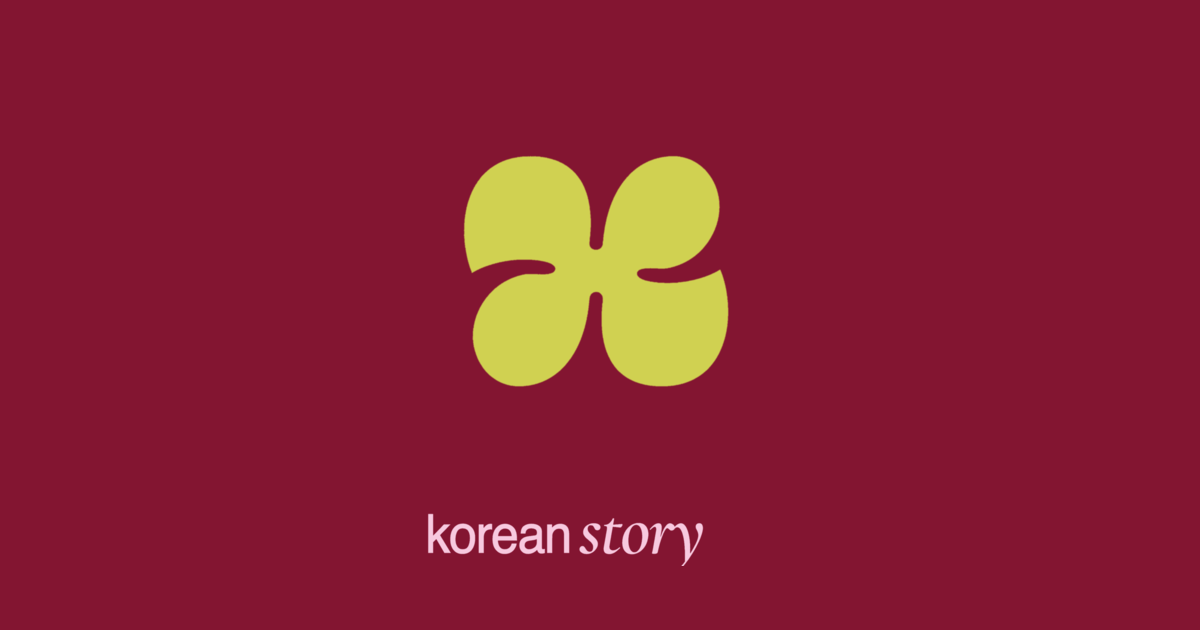
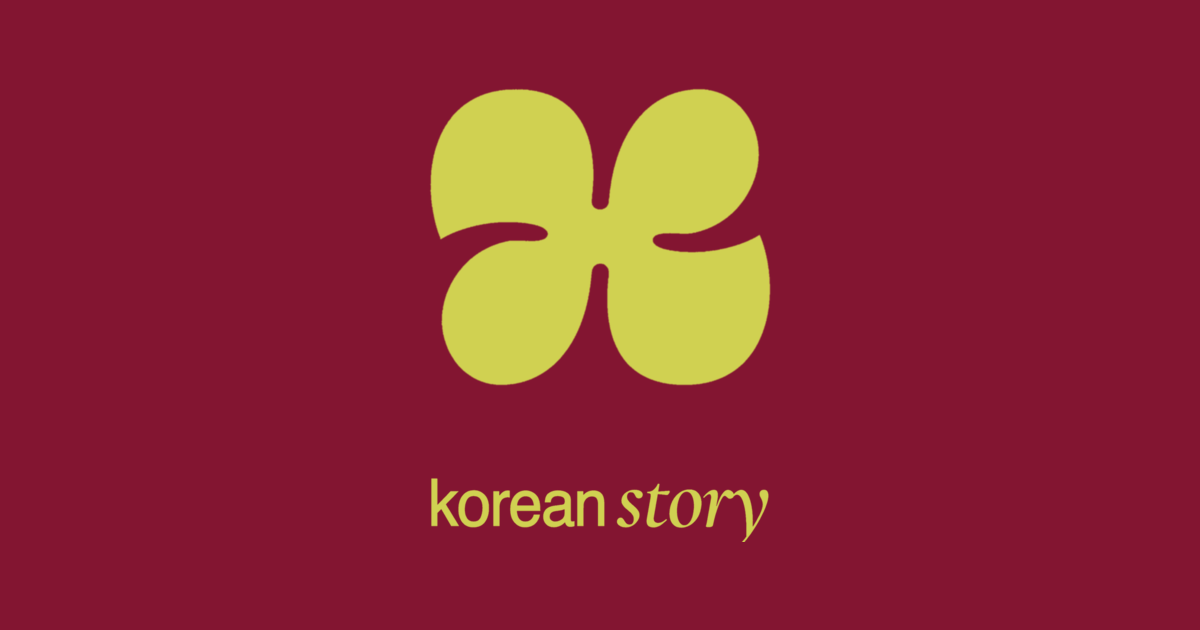
feat(first order): 10% for a new customer, and cards that line up
**The discount.** Shopify applies a code from a link — `/discount/CODE?redirect=…`
— and that is the whole reason this needs no Admin token: a person creates the
code once in the shop's admin, the bot hands out the link. Checked against the
live storefront first: a 302 to the landing page with the UTM tags intact.

Shown in the three places a customer has nothing else to look at — right after
registration, on an empty orders screen, on an empty favourites screen — and
nowhere else. Somebody with a history has had their first order already.

`first_order_code` is empty in config.yaml and the offer is invisible until it
is filled: a button leading to a code that does not exist is worse than no
button, and the bot does not create discounts. `first_order_reward` is the
wording, because the size of it is the shop's promise. The referral reward is
now written out too — «Знижка 10% на наступне замовлення».

**The cards.** The wordmark was cropped to a fixed rectangle with 175px of
uneven padding around the glyphs, so "centred" centred the padding. Both cards
are rebuilt from trimmed masks on one layout — flower 300 tall at y=87, wordmark
340 wide at y=477 — and the script that does it is checked in beside them
(`webapp/build_cards.sh`), because the next card should not be aligned by eye
either.

Changed region(s): [[0.3392, 0.1206, 0.6475, 0.6333], [0.3392, 0.754, 0.6475, 0.9048]]

diff --git a/bot/handlers/orders.py b/bot/handlers/orders.py
@@ -28,7 +28,8 @@ from core.repos.catalogue import get_offers
 from core.repos.orders import (CANCELLED_STATUS_GROUP, get_cached_orders,
                                get_last_sync_time)
 from core.repos.users import get_user_phone
-from bot.keyboards import STYLE_CART, STYLE_LIST, STYLE_UNDO, cart_url
+from bot.keyboards import (STYLE_CART, STYLE_LIST, STYLE_UNDO, cart_url,
+                           discount_url)
 from bot.screen import render, typing
 from bot.handlers.delivery import parcel_lines
 from bot.sync import stale_notice
@@ -402,18 +403,53 @@ def _orders_kb(
     return builder.as_markup()
 
 
-def _no_orders_kb(t: Texts) -> InlineKeyboardMarkup:
-    """Offer support when the lookup found nothing.
+def _no_orders_kb(t: Texts, config: AppConfig | None = None) -> InlineKeyboardMarkup:
+    """The first-order discount, support, and the way back.
 
     A customer who just shared their contact and got "no orders" has nowhere to
-    go otherwise, and the most likely cause — the order sits under a different
-    phone than their Telegram — is something only a manager can resolve.
+    go otherwise, and the two things worth offering them are opposite: a reason
+    to buy something, and a person to ask if they believe they already have.
+    The second most likely cause of an empty screen — the order sits under a
+    different phone than their Telegram — is something only a manager can fix.
+
+    The discount button appears only where a code is configured. There is no
+    default code in the code, and there never should be: the bot hands out a
+    link that applies one, it does not invent discounts.
     """
     builder = InlineKeyboardBuilder()
+    if config is not None and config.first_order_code:
+        builder.button(
+            text=t.BTN_FIRST_ORDER,
+            url=discount_url(config.website_url, config.first_order_code, t.lang),
+            style=STYLE_CART,
+        )
     builder.button(text=t.BTN_SUPPORT, callback_data=MenuAction(action="support"))
     builder.button(text=t.BTN_MENU, callback_data=MenuAction(action="menu"))
     builder.adjust(1)
     return builder.as_markup()
+
+
+def first_order_kb(t: Texts, config: AppConfig) -> InlineKeyboardMarkup:
+    """Just the discount, for the message that follows registration."""
+    builder = InlineKeyboardBuilder()
+    builder.button(
+        text=t.BTN_FIRST_ORDER,
+        url=discount_url(config.website_url, config.first_order_code, t.lang),
+        style=STYLE_CART,
+    )
+    return builder.as_markup()
+
+
+def first_order_offer(t: Texts, config: AppConfig) -> str:
+    """The offer as a paragraph, or "" when no code is configured.
+
+    Its own function because two screens and the end of registration all show
+    the same thing, and a customer who has seen it once should not read three
+    different versions of it.
+    """
+    if not config.first_order_code or not config.first_order_reward:
+        return ""
+    return t.MSG_FIRST_ORDER.format(reward=escape(config.first_order_reward))
 
 
 def favourite_products(orders: list[dict], limit: int = 5) -> list[dict]:
@@ -508,6 +544,7 @@ async def orders_screen(
     t: Texts,
     keycrm: KeyCRMClient,
     anchor: Message,
+    config: AppConfig | None = None,
 ) -> tuple[str, InlineKeyboardMarkup | None]:
     """The orders screen, ready to be sent or edited into place.
 
@@ -539,9 +576,15 @@ async def orders_screen(
     # below it so a long history cannot bury it.
     notice = await stale_notice(chat_id, t)
     text = _format_orders_from_cache(cached, t)
+    if not cached and config is not None:
+        # Nothing to show is the one moment a first-order discount is exactly
+        # the right thing to say.
+        offer = first_order_offer(t, config)
+        if offer:
+            text = f"{text}\n\n{offer}"
     return (
         f"{notice}\n\n{text}" if notice else text,
-        _orders_kb(cached, t) if cached else _no_orders_kb(t),
+        _orders_kb(cached, t) if cached else _no_orders_kb(t, config),
     )
 
 
@@ -625,6 +668,7 @@ async def favourites_screen(
     keycrm: KeyCRMClient,
     anchor: Message,
     website_url: str,
+    config: AppConfig | None = None,
 ) -> tuple[str, InlineKeyboardMarkup | None]:
     """The favourites screen.
 
@@ -642,13 +686,15 @@ async def favourites_screen(
         await _refresh_orders(chat_id, keycrm)
         cached = await get_cached_orders(chat_id)
 
-    text, markup, found = await _favourites_view(chat_id, t, cached, website_url)
+    text, markup, found = await _favourites_view(chat_id, t, cached, website_url,
+                                                 config)
     track(chat_id, "favourites_viewed", found=found)
     return text, markup
 
 
 async def _favourites_view(
-    chat_id: int, t: Texts, cached: list[dict], website_url: str
+    chat_id: int, t: Texts, cached: list[dict], website_url: str,
+    config: AppConfig | None = None,
 ) -> tuple[str, InlineKeyboardMarkup, int]:
     """The favourites screen — its text, its buttons, and how many it lists.
 
@@ -671,7 +717,10 @@ async def _favourites_view(
     """
     favourites = favourite_products(cached, limit=_ON_SCREEN)
     if not favourites:
-        return (t.MSG_NO_FAVOURITES if cached else t.MSG_NO_ORDERS), _no_orders_kb(t), 0
+        empty = t.MSG_NO_FAVOURITES if cached else t.MSG_NO_ORDERS
+        offer = first_order_offer(t, config) if config is not None and not cached else ""
+        return (f"{empty}\n\n{offer}" if offer else empty,
+                _no_orders_kb(t, config), 0)
 
     offers = await get_offers(str(item.get("sku") or "") for item in favourites)
     levels = await get_stock_levels()

diff --git a/tests/test_first_order.py b/tests/test_first_order.py
@@ -1,0 +1,110 @@
+"""The discount a new customer gets, and the two ways it stays honest.
+
+Shopify applies a code from a link — `/discount/CODE?redirect=…` — which is the
+whole reason this works without an Admin token: a person creates the code once
+in the shop's admin, and the bot hands out the link. So the two things worth
+testing are that the link is right, and that nothing is offered when there is
+no code to offer.
+"""
+from __future__ import annotations
+
+import asyncio
+import json
+from types import SimpleNamespace
+from urllib.parse import parse_qs, unquote, urlparse
+
+import pytest
+
+from bot.handlers.orders import (_favourites_view, _no_orders_kb, first_order_kb,
+                                 first_order_offer)
+from bot.keyboards import discount_url
+from core.i18n import Texts
+from core.repos import base as repos_base
+from core.repos.orders import upsert_orders
+from core.repos.schema import init_db
+from core.repos.users import save_user
+
+CHAT = 8080
+SHOP = "https://koreanstory.com.ua"
+T = Texts("uk")
+
+
+@pytest.fixture()
+def db(tmp_path, monkeypatch):
+    monkeypatch.setattr(repos_base, "DB_PATH", str(tmp_path / "bot_data.db"))
+    asyncio.run(init_db())
+
+
+def _config(code: str = "FIRST10", reward: str = "Знижка 10% на перше замовлення"):
+    return SimpleNamespace(website_url=SHOP, first_order_code=code,
+                           first_order_reward=reward)
+
+
+def _labels(markup):
+    return [b.text for row in markup.inline_keyboard for b in row]
+
+
+# --- the link ---------------------------------------------------------------
+
+def test_the_link_applies_the_code_and_lands_in_the_shop():
+    url = discount_url(SHOP, "FIRST10")
+    assert urlparse(url).path == "/discount/FIRST10"
+    redirect = unquote(parse_qs(urlparse(url).query)["redirect"][0])
+    assert redirect.startswith("/?")
+    assert "utm_campaign=first_order" in redirect
+
+
+def test_a_code_with_awkward_characters_survives_the_url():
+    assert "/discount/10%25%20OFF" in discount_url(SHOP, "10% OFF")
+
+
+# --- when it is offered -----------------------------------------------------
+
+def test_a_customer_with_no_orders_is_offered_it(db):
+    asyncio.run(save_user(CHAT, "+380670000000"))
+    text, markup, _ = asyncio.run(
+        _favourites_view(CHAT, T, [], SHOP, _config()))
+    assert "перше замовлення" in text
+    assert T.BTN_FIRST_ORDER in _labels(markup)
+
+
+def test_a_customer_who_has_bought_before_is_not(db):
+    """It is a first-order discount. Somebody with a history has had theirs."""
+    asyncio.run(save_user(CHAT, "+380670000000"))
+    order = {
+        "chat_id": CHAT, "source": "keycrm", "source_order_id": "1",
+        "external_id": "1", "order_name": "", "status_name": "completed",
+        "status_group_id": 1, "grand_total": 100.0, "currency": "грн",
+        "ordered_at": "2026-08-01T10:00:00",
+        "products_json": json.dumps([{"name": "A", "qty": 1, "sku": "1"}]),
+        "buyer_name": "", "payment_status": "", "tracking_code": "",
+        "shipping_status": "", "delivery_city": "", "receive_point": "",
+        "recipient_name": "",
+    }
+    asyncio.run(upsert_orders(CHAT, [order]))
+    cached = [order]
+    text, markup, _ = asyncio.run(
+        _favourites_view(CHAT, T, cached, SHOP, _config()))
+    assert "перше замовлення" not in text
+    assert T.BTN_FIRST_ORDER not in _labels(markup)
+
+
+# --- when it is not ---------------------------------------------------------
+
+def test_no_code_means_no_offer_anywhere():
+    """A button leading to a code that does not exist is worse than no button,
+    and the code is created by a person in the Shopify admin."""
+    empty = _config(code="")
+    assert first_order_offer(T, empty) == ""
+    assert T.BTN_FIRST_ORDER not in _labels(_no_orders_kb(T, empty))
+
+
+def test_no_wording_means_no_offer_either():
+    """The size of the discount is the shop's promise, not the bot's."""
+    assert first_order_offer(T, _config(reward="")) == ""
+
+
+def test_the_offer_names_what_the_shop_promised():
+    assert "10%" in first_order_offer(T, _config())
+    assert first_order_kb(T, _config()).inline_keyboard[0][0].url.startswith(
+        f"{SHOP}/discount/FIRST10")

diff --git a/bot/keyboards.py b/bot/keyboards.py
@@ -1,7 +1,7 @@
 """Inline keyboard builders for menu navigation."""
 from __future__ import annotations
 
-from urllib.parse import urlencode, urlparse
+from urllib.parse import quote, urlencode, urlparse
 
 from aiogram.types import (InlineKeyboardMarkup, KeyboardButton,
                            ReplyKeyboardMarkup, WebAppInfo)
@@ -54,6 +54,25 @@ def tagged_website_url(url: str) -> str:
         return url
     tags = _tags("main_menu")
     return f"{url}{'&' if urlparse(url).query else '?'}{tags}"
+
+
+def discount_url(website_url: str, code: str, lang: str = "uk") -> str:
+    """A link that applies a discount code and lands in the shop.
+
+    `/discount/{code}?redirect=…` is Shopify's own mechanism, and the reason
+    this works without an Admin token: the code is created once by a person in
+    the shop's admin, and the bot only hands out the link that puts it in
+    somebody's session. Verified against the live storefront — a 302 to the
+    redirect target with the tags intact.
+    """
+    landing = "/?" + urlencode({
+        "utm_source": "telegram",
+        "utm_medium": "bot",
+        "utm_campaign": "first_order",
+        "locale": lang,
+    })
+    return (f"{website_url.rstrip('/')}/discount/{quote(code, safe='')}"
+            f"?{urlencode({'redirect': landing})}")
 
 
 def cart_url(website_url: str, variant_ids: Sequence[int], lang: str = "uk",

diff --git a/bot/handlers/menu.py b/bot/handlers/menu.py
@@ -70,7 +70,7 @@ async def open_orders(
 ) -> None:
     """📦 — the order history, newest first."""
     await state.clear()
-    text, markup = await orders_screen(message.chat.id, t, keycrm, message)
+    text, markup = await orders_screen(message.chat.id, t, keycrm, message, config)
     sent = await message.answer(text, reply_markup=markup)
     # And a moment later, where the parcel is — from the carrier, in the
     # background, so this screen still opens from the cache instantly.
@@ -101,7 +101,7 @@ async def open_favourites(
     """⭐ — what this customer buys most, and what of it is out of stock."""
     await state.clear()
     text, markup = await favourites_screen(
-        message.chat.id, t, keycrm, message, config.website_url
+        message.chat.id, t, keycrm, message, config.website_url, config
     )
     await message.answer(text, reply_markup=markup)
 
@@ -187,7 +187,7 @@ async def orders_from_menu(
     await callback.answer()
     await state.clear()
     text, markup = await orders_screen(
-        callback.from_user.id, t, keycrm, callback.message
+        callback.from_user.id, t, keycrm, callback.message, config
     )
     follow_up_parcel(await render(callback, text, markup),
                      callback.from_user.id, t, novaposhta)

diff --git a/core/config.py b/core/config.py
@@ -103,6 +103,12 @@ class AppConfig:
     # size of a discount is a commitment, so the bot does not invent one: empty
     # means the screen promises only what it can keep — that a code will come.
     referral_reward: str
+    # The discount code a first order gets, as it is written in the Shopify
+    # admin — the bot hands out a link that applies it and never creates one.
+    # Empty means the offer is not shown at all: a button leading to a code
+    # that does not exist is worse than no button.
+    first_order_code: str
+    first_order_reward: str
     about_text: str
     contacts_text: str
     payment_text: str
@@ -155,6 +161,8 @@ def load_config(config_path: str | Path = "config.yaml") -> AppConfig:
         support_chat_id=yaml_data["support_chat_id"],
         instagram_url=yaml_data.get("instagram_url", ""),
         referral_reward=yaml_data.get("referral_reward", "").strip(),
+        first_order_code=yaml_data.get("first_order_code", "").strip(),
+        first_order_reward=yaml_data.get("first_order_reward", "").strip(),
         about_text=yaml_data.get("about_text", ""),
         contacts_text=yaml_data.get("contacts_text", ""),
         payment_text=yaml_data.get("payment_text", ""),

diff --git a/bot/handlers/onboarding.py b/bot/handlers/onboarding.py
@@ -11,6 +11,7 @@ from bot.analytics import track
 from core.config import AppConfig
 from core.effects import CONFETTI
 from bot.keyboards import share_phone_kb
+from bot.handlers.orders import first_order_kb, first_order_offer
 from bot.screen import send_main_menu, typing
 from core.adapters.keycrm.client import KeyCRMClient
 from core.domain.phone import VerifiedPhone, verified_phone
@@ -65,6 +66,14 @@ async def _register_user(
     # this moment deserves more: it happens once per customer, and what it says
     # is "we found you". Refused ids fall back to a plain message (bot/screen).
     await send_main_menu(message, t, config, t.MSG_PHONE_VERIFIED, effect=CONFETTI)
+
+    # A customer the CRM has never heard of is a new one, and this is the
+    # moment the offer means something. Said once, here — the empty orders and
+    # favourites screens say it too, and whoever has bought before sees none
+    # of it (bot/handlers/orders.py).
+    offer = first_order_offer(t, config)
+    if offer and not await get_cached_orders(message.chat.id):
+        await message.answer(offer, reply_markup=first_order_kb(t, config))
 
 
 @router.message(OnboardingStates.waiting_phone, F.contact)

diff --git a/core/texts.py b/core/texts.py
@@ -591,6 +591,13 @@ BTN_SHARE_ABOUT = "Що це за магазин"
 # промокод. Текст самої винагороди лежить у config.yaml (`referral_reward`):
 # розмір знижки — це зобов'язання бізнесу, і бот його не вигадує.
 BTN_INVITE = "🎁 Запроси подругу"
+# Перше замовлення. Розмір знижки й код — у config.yaml: код заводиться в
+# адмінці магазину, і бот роздає посилання, а не вигадує знижку.
+BTN_FIRST_ORDER = "🛒 Забрати знижку"
+MSG_FIRST_ORDER = (
+    "<b>🎁 Це буде твоє перше замовлення з нами</b>\n\n"
+    "{reward}. Вона вже в посиланні — просто обери, що подобається."
+)
 MSG_INVITE_SCREEN = (
     "<b>🎁 Запроси подругу</b>\n\n"
     "Надішли їй бота — а коли вона зробить перше замовлення, ми надішлемо "

diff --git a/bot/handlers/common.py b/bot/handlers/common.py
@@ -96,12 +96,13 @@ async def cmd_start(
         payload = command.args or ""
         if payload == FAVOURITES_DEEP_LINK:
             text, markup = await favourites_screen(
-                message.chat.id, t, keycrm, message, config.website_url
+                message.chat.id, t, keycrm, message, config.website_url, config
             )
             await message.answer(text, reply_markup=markup)
             return
         if payload == ORDERS_DEEP_LINK:
-            text, markup = await orders_screen(message.chat.id, t, keycrm, message)
+            text, markup = await orders_screen(message.chat.id, t, keycrm, message,
+                                               config)
             sent = await message.answer(text, reply_markup=markup)
             follow_up_parcel(sent, message.chat.id, t, novaposhta)
             return

diff --git a/core/i18n.py b/core/i18n.py
@@ -207,6 +207,11 @@ EN: dict[str, str] = {
     "BTN_SHARE_BUY": "🛒 Buy",
     "BTN_SHARE_ABOUT": "About this shop",
     "BTN_INVITE": "🎁 Invite a friend",
+    "BTN_FIRST_ORDER": "🛒 Claim the discount",
+    "MSG_FIRST_ORDER": (
+        "<b>🎁 This will be your first order with us</b>\n\n"
+        "{reward}. It is already in the link — just pick what you like."
+    ),
     "MSG_INVITE_SCREEN": (
         "<b>🎁 Invite a friend</b>\n\n"
         "Send her the bot — and when she places her first order, we send "
